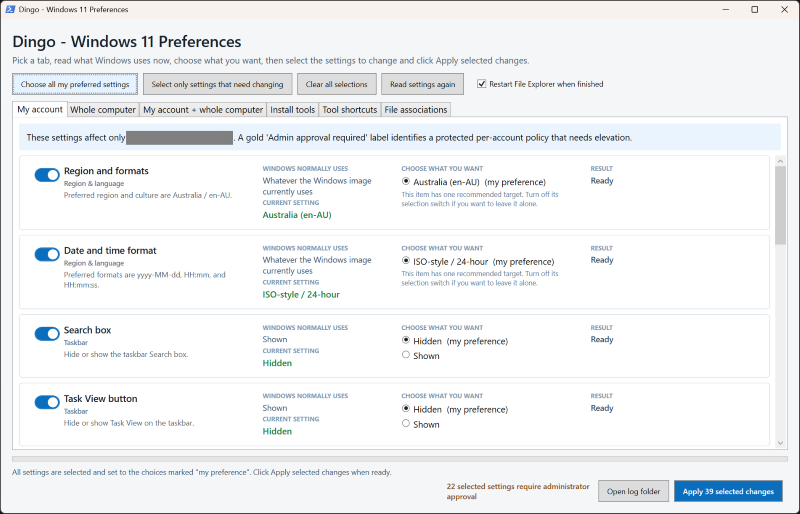
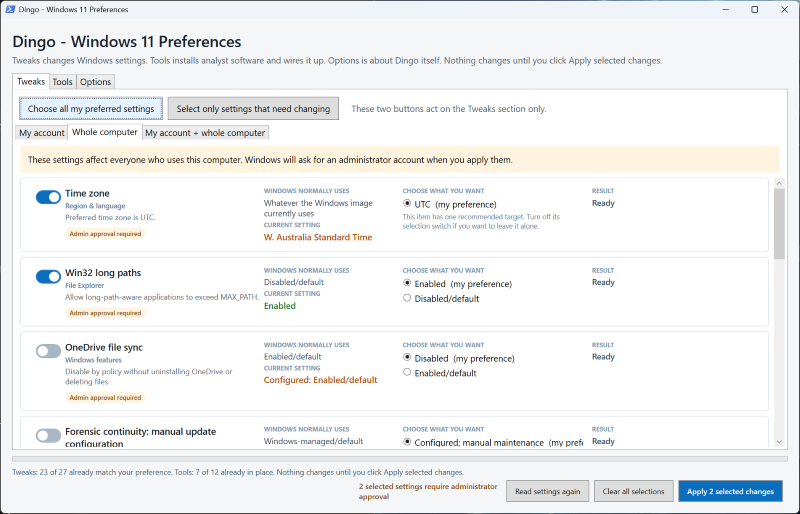
Show the new three-section layout in the README screenshot
The screenshot still showed one row of six tabs and four buttons above
them, which is the layout this branch replaced.

The working full-size shot beside it is now ignored. Only the redacted copy
the README points at is tracked, so an unredacted window cannot reach the
repository through a stray 'git add -A'. Account details have had to be
removed from this screenshot twice already.

diff --git a/README.md b/README.md
@@ -4,7 +4,7 @@ Dingo quickly prepares a fresh Windows 11 installation for use as a DFIR analyst
 
 It is a self-contained, state-aware PowerShell/WPF utility that lets you review each change before applying it.
 
-![Dingo main window showing selectable Windows 11 preference cards](Assets/Dingo-main-screen-redacted.png)
+![Dingo main window: the Tweaks section open on the Whole computer tab, showing setting cards and the Tweaks, Tools, and Options sections](Assets/Dingo-main-screen-redacted.png)
 
 ## Run it
 
